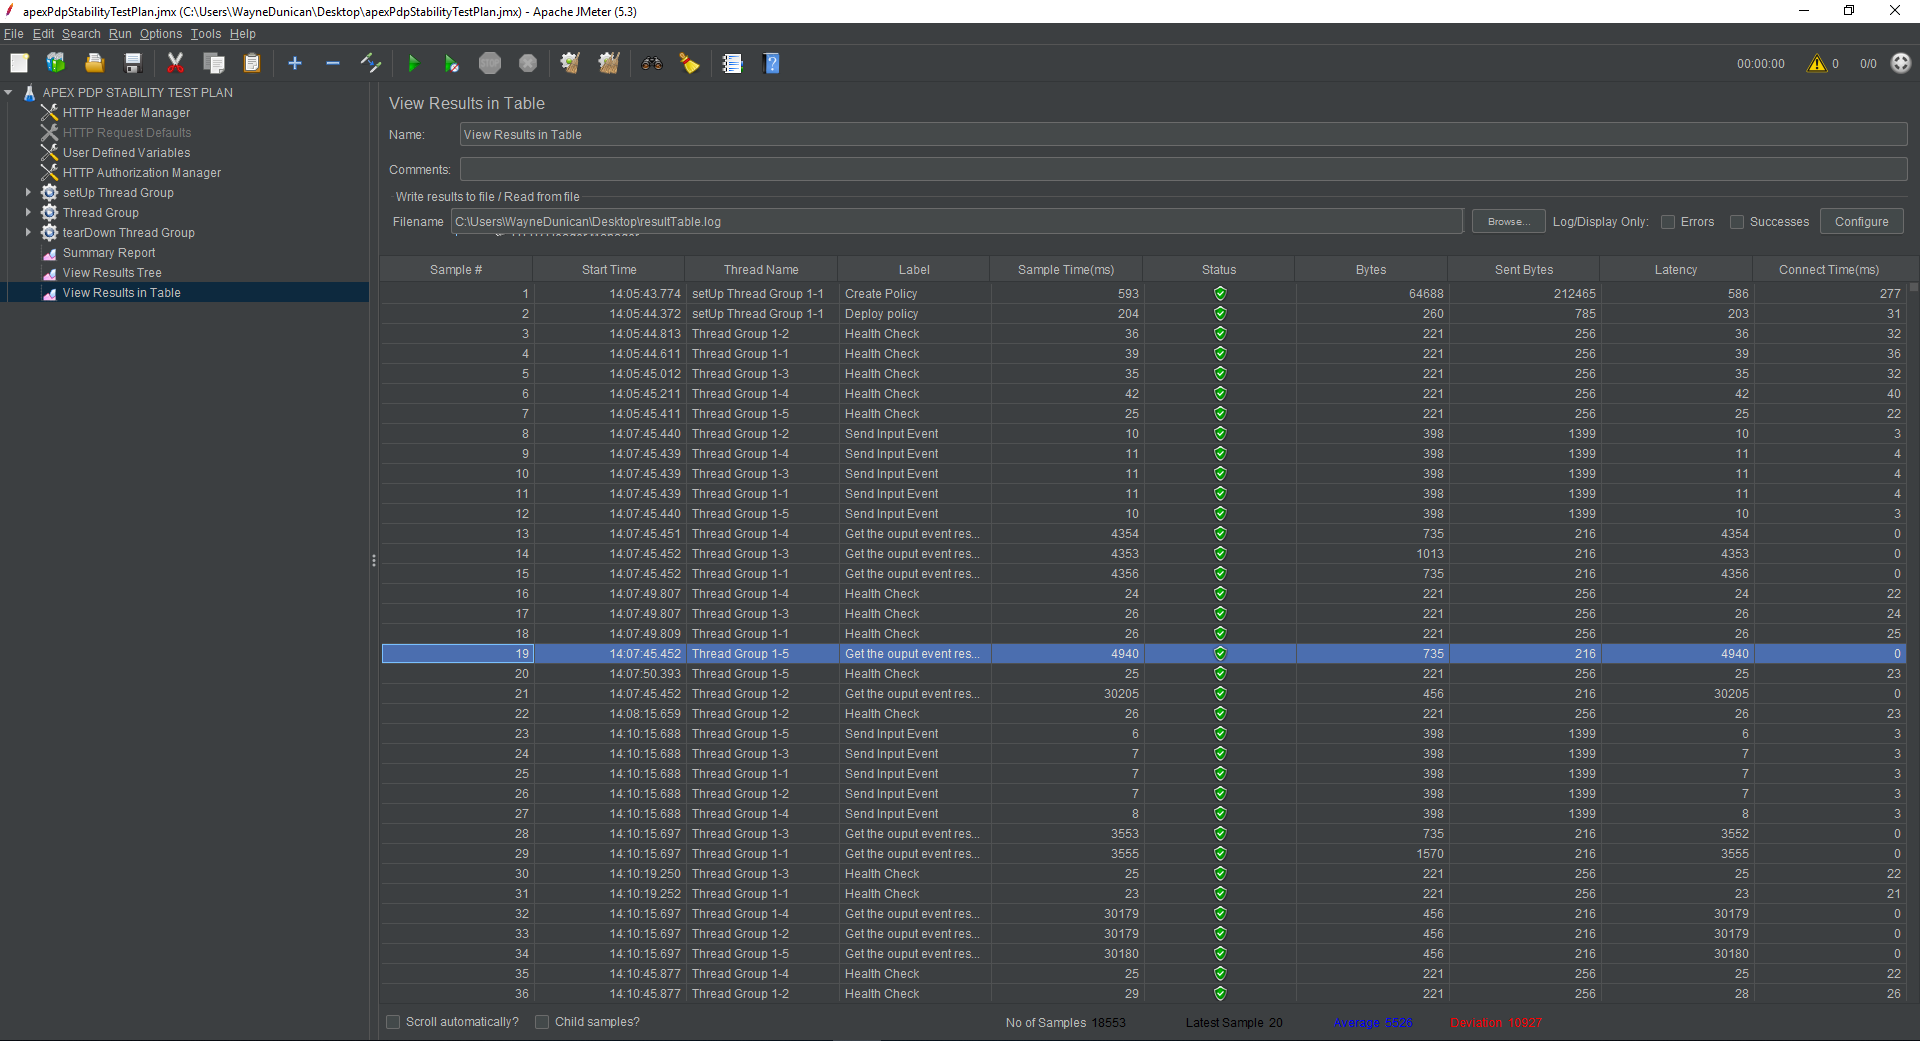
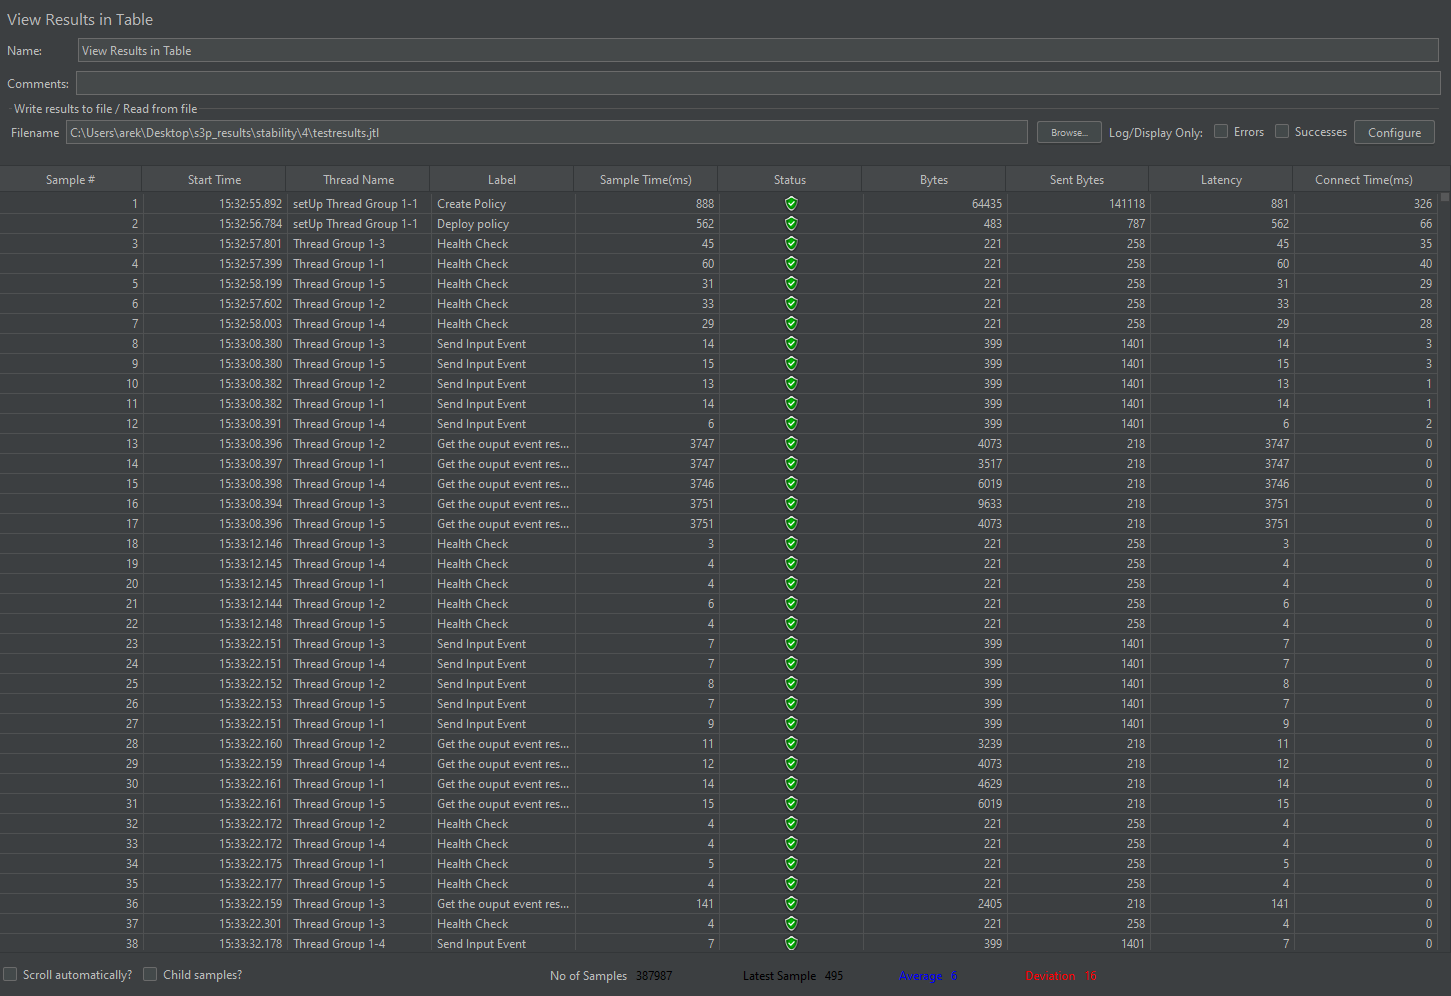
Update Apex-PDP s3p Test results
- Update stability test results

Issue-ID: POLICY-3109

diff --git a/docs/development/devtools/apex-s3p.rst b/docs/development/devtools/apex-s3p.rst
@@ -113,12 +113,11 @@ Once the test has complete - we can generate a HTML test report via the followin
 ==============================================  ================================  =============  ============ ============================
 **Number of Client Threads running in JMeter**  **Total number of input events**  **Success %**  **Error %**  **Average Time per Request**
 ==============================================  ================================  =============  ============ ============================
-5                                               8594220                           100%           0%           5518.73
+5                                               129326                            100%           0%           6716.12
 ==============================================  ================================  =============  ============ ============================
 
 .. image:: images/stability-jmeter.PNG
 
-:download:`result.zip <apex-s3p-results/apex_s3p_results.zip>`
 
 
 Stability Test of Apex PDP
@@ -191,7 +190,7 @@ Once the tests complete, we can generate an HTML test report via the command:
 ==============================================  ================================  =============  ============ ============================
 **Number of Client Threads running in JMeter**  **Total number of input events**  **Success %**  **Error %**  **Average Time per Request**
 ==============================================  ================================  =============  ============ ============================
-5                                               8594220                           100%           0%           5518.73
+5                                               9025                              100%           0%           3474.43
 ==============================================  ================================  =============  ============ ============================
 
 
@@ -200,14 +199,13 @@ Once the tests complete, we can generate an HTML test report via the command:
 .. image:: images/apex_s3p_jm-1.png
 .. image:: images/apex_s3p_jm-2.png
 
-:download:`result.zip <apex-s3p-results/apex_s3p_results.zip>`
 
 Setting up Performance Tests in APEX
 ++++++++++++++++++++++++++++++++++++
 
 The Performance test is performed on a similar setup to the Stability test. JMeter will send a large number of REST requests and will then retrieve those requests.
 
-Performnce test plan will be the same as the stability test plan except for some differences listed below:
+Performance test plan will be the same as the stability test plan except for some differences listed below:
 
 - Increase the number of threads from 5 to 60.
 - Reduce test time to ninety minutes.
